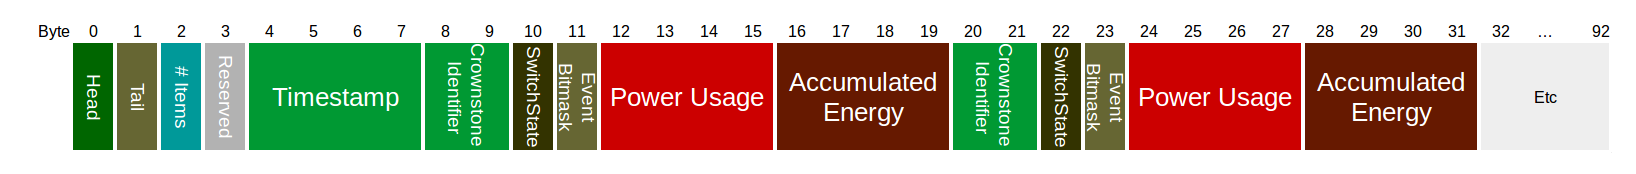
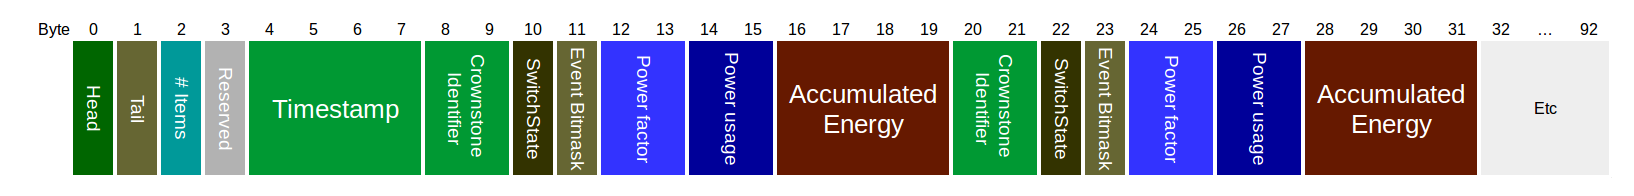
Updated protocol: mesh messages has breaking changes.

diff --git a/docs/PROTOCOL.md b/docs/PROTOCOL.md
@@ -1,4 +1,4 @@
-# Bluenet protocol v0.11.2
+# Bluenet protocol v0.12.0
 -------------------------
 
 # Index
@@ -780,29 +780,35 @@ The mesh payload packet is defined by the handle. We have the following handles
 
 Handle | Name | Type | Description
 --- | --- | --- | ---
-1 | Keep alive channel | [Keep alive](#keep_alive_mesh_packet) | Channel on which the keep alive messages are sent. A message consists of a global timeout and a number of keep alive items (on per stone which is addressed). If the length of the mesh control packet is 0, the existing keepalive message will be repeated.
-2 | State broadcast channel | [State](#state_mesh_packet) | Each stone sends it's state periodically over the mesh. The message is designed as a circular buffer and a new item is added at the end (throwing out the oldest if full)
-3 | State change channel | [State](#state_mesh_packet) | Each stone sends its' state on this channel if the state changes significantly, e.g. switch state changes.
-4 | Command channel | [Command](#command_mesh_packet) | Commands can be sent to one, multiple or all stones sharing the mesh network. Once a stone receives a command it will send a reply on the reply channel
-5 | Command reply channel | [Command reply](#command_reply_packet) | Every stone that was targeted with a command adds its reply to the reply message.
-6 | Scan result channel | [Scan result](#scan_result_mesh_packet) | If a stone is scanning for devices it adds its scanned devices periodically to this list to be sent over the mesh
-7 | Big data channel | - | This channel is for the case when a stone needs to send big data, such as the history of eneregy usage, etc.
-8 | Multi switch channel | [Multi switch](#multi_switch_mesh_packet) | This channel is used to send different switch commands with individual timeouts, switch states and intents to different crownstones in one message
+11 | Keep alive channel | [Keep alive](#keep_alive_mesh_packet) | Channel on which the keep alive messages are sent. A message consists of a global timeout and a number of keep alive items (on per stone which is addressed). If the length of the mesh control packet is 0, the existing keepalive message will be repeated.
+9  | State channel | [State](#state_mesh_packet) | Each stone sends its state periodically, and on significant state change, over the mesh. The message is designed as a circular buffer and a new item is added at the end (throwing out the oldest when full).
+10 | State channel | [State](#state_mesh_packet) | Each stone sends its state periodically, and on significant state change, over the mesh. The message is designed as a circular buffer and a new item is added at the end (throwing out the oldest when full).
+4  | Command channel | [Command](#command_mesh_packet) | Commands can be sent to one, multiple or all stones sharing the mesh network. Once a stone receives a command it will send a reply on the reply channel
+5  | Command reply channel | [Command reply](#command_reply_packet) | Every stone that was targeted with a command adds its reply to the reply message.
+6  | Scan result channel | [Scan result](#scan_result_mesh_packet) | If a stone is scanning for devices it adds its scanned devices periodically to this list to be sent over the mesh
+7  | Big data channel | - | This channel is for the case when a stone needs to send big data, such as the history of eneregy usage, etc.
+12 | Multi switch channel | [Multi switch](#multi_switch_mesh_packet) | This channel is used to send different switch commands with individual timeouts, switch states and intents to different crownstones in one message
 
 #### <a name="keep_alive_mesh_packet"></a>Keep alive packet
 
-![Keep Alive packet](../docs/diagrams/keep-alive-mesh-packet.png)
+![Keep alive packet](../docs/diagrams/keep-alive-mesh-packet.png)
 
-Deprecated: If the length of the mesh control packet is 0, the existing keepalive message will be repeated. This is used to delay the existing time outs by people who do not have permission to change the state.
+Type nr | Type name | Payload type | Description
+--- | --- | --- | ---
+1 | [Same timeout](#keep_alive_same_timeout_mesh_packet) | Keep alive same timeout | Keep alive with same timeout for each Crownstone.
+
+#### <a name="keep_alive_same_timeout_mesh_packet"></a>Keep alive same timeout packet
+
+![Keep alive same timeout packet](../docs/diagrams/keep-alive-same-timeout-mesh-packet.png)
 
 Type | Name | Length | Description
 --- | --- | --- | ---
 uint 16 | Timeout | 2 | Timeout (in seconds), applies to all stones present in the list.
-uint 8 | Size | 1 | Number of keep alive items in the list.
-uint 8 [2] | Reserved | 2 | Reserved for future use.
-[Keep alive item](#keep_alive_mesh_item) [] | List | N | The keep alive items.
+uint 8 | Count | 1 | Number of items in the list.
+uint 8 | Reserved | 1 | Reserved for future use.
+[Keep alive item](#keep_alive_mesh_item) [] | List | N | The keep alive same timeout items.
 
-##### <a name="keep_alive_mesh_item"></a>Keep alive Item
+##### <a name="keep_alive_mesh_item"></a>Keep alive same timeout item
 
 Type | Name | Length | Description
 --- | --- | --- | ---
@@ -828,7 +834,7 @@ uint 8 | Tail | 1 | Keeps the index where the next element can be inserted in th
 uint 8 | Size | 1 | Number of elements in the list
 uint 8 | Reserved | 1 | Reserved for future use
 uint 32 | Timestamp | 4 | Posix timestamp at which this message was originally sent (0 for unknown time)
-[Crownstone state item](#state_mesh_item) [] | List | 7 | Circular list with Crownstone state items
+[Crownstone state item](#state_mesh_item) [] | List | N | Circular list with Crownstone state items
 
 ##### <a name="state_mesh_item"></a>Crownstone state item
 
@@ -837,8 +843,9 @@ Type | Name | Length | Description
 uint 16 | Crownstone ID | 2 | The identifier of the crownstone which has this state
 uint 8 | Switch state | 1 | The current [Switch state](#switch_state_packet) of the crownstone
 uint 8 | Event bitmask | 1 | The current [Event bitmask](#event_bitmask) of the crownstone
-int 32 | Power usage | 4 | The current power usage of the crownstone (mW)
-int 32 | Accumulated energy | 4 | The accumulated energy since setup (Wh)
+int 16 | Power factor | 2 | The power factor at this moment. Divide by 1024 to get the actual power factor.
+uint 16 | Power usage | 2 | The apparent power usage at this moment. Divide by 16 to get power usage in Watt.
+int 32 | Energy used | 4 | The total energy used. Divide by 64 to get the energy used in Joule.
 
 #### <a name="command_mesh_packet"></a>Command packet
 
@@ -846,19 +853,19 @@ int 32 | Accumulated energy | 4 | The accumulated energy since setup (Wh)
 
 Type | Name | Length | Description
 --- | --- | --- | ---
-uint 16 | [Command type](#mesh_command_types) | 2 | Type of command, see table below.
-uint 8 | Number of IDs | 1 | The number of IDs provided as targets, 0 for broadcast
-uint16 [] | List of target IDs | Number of IDs | Crownstone Identifiers of the devices at which this message is aimed, for broadcast, no IDs are provided and the command follows directly after the Number of IDs element
-uint 8 | Command payload | N | The command payload data, which depends on the message type
+uint 16 | [Type](#mesh_command_types) | 2 | Type of command, see table below.
+uint 8 | Count | 1 | The number of IDs provided as targets, 0 for broadcast.
+uint16 [] | List of target IDs | Count * 2 | Crownstone Identifiers of the devices at which this message is aimed, for broadcast, no IDs are provided and the command follows directly after the Number of IDs element.
+uint 8 | Command payload | N | The command payload data, which depends on the type.
 
 ##### <a name="mesh_command_types"></a>Command types
 
 Type nr | Type name | Payload type | Payload description
 --- | --- | --- | ---
-0 | Control | [Control](#control_packet) | Send a control command over the mesh, see control packet
+0 | Control | [Control](#control_packet) | Send a control command over the mesh, see control packet.
 1 | Beacon | [Beacon Config](#beacon_mesh_data_packet) | Configure the iBeacon settings.
-2 | Config | [Configuration](#config_packet) | Send/Request a configuration setting, see configuration packet
-3 | State | [State](#state_packet) | Send/Request a state variable, see state packet
+2 | Config | [Configuration](#config_packet) | Send/Request a configuration setting, see configuration packet.
+3 | State | [State](#state_packet) | Send/Request a state variable, see state packet.
 
 ##### <a name="beacon_mesh_data_packet"></a>Beacon config packet
 
@@ -877,10 +884,10 @@ int 8 | TX power | 1 | iBeacon signal strength at 1 meter.
 
 Type | Name | Length | Description
 --- | --- | --- | ---
-uint 16 | [Reply type](#mesh_reply_types) | 2 | Type of reply, see table below
-uint 32 | Message counter | 4 | The message number of the command to which this reply belongs
-uint 8 | Number of replies | 1 | Number of reply items in the list
-uint 8 | List of replies | 85 | List of replies, the format is defined by the type of reply
+uint 16 | [Reply type](#mesh_reply_types) | 2 | Type of reply, see table below.
+uint 32 | Message counter | 4 | The message number of the command to which this reply belongs.
+uint 8 | Count | 1 | Number of items in the list.
+uint 8 | List | 85 | List of replies, the format is defined by the type of reply.
 
 ##### <a name="mesh_reply_types"></a>Reply types
 
@@ -931,7 +938,7 @@ Type | Name | Length | Description
 --- | --- | --- | ---
 uint 8 | Number of results | 1 | Number of scan results in the list
 uint 8 | Reserved | 1 | Reserved for future use
-[Scan Result item](#scan_result_item) [] | List | Number of results | A list of scanned devices with the ID of the crownstone that scanned the device
+[Scan Result item](#scan_result_item) [] | List | N | A list of scanned devices with the ID of the crownstone that scanned the device
 
 ##### <a name="mesh_scan_result_item"></a>Scan result item
 
@@ -943,22 +950,29 @@ int 8 | RSSI | 1 | The averaged RSSI value of the scanned device
 
 ##### <a name="multi_switch_mesh_packet"></a></a>Multi switch packet
 
-![Keep Alive packet](../docs/diagrams/multi-switch-mesh-packet.png)
+![Multi switch packet](../docs/diagrams/multi-switch-mesh-packet.png)
+
+Type nr | Type name | Payload type | Description
+--- | --- | --- | ---
+0 | [List](#multi_switch_list_mesh_packet) | Multi switch list | Different switch command for each Crownstone.
+
+##### <a name="multi_switch_list_mesh_packet"></a></a>Multi switch list packet
+
+![Multi switch packet](../docs/diagrams/multi-switch-list-mesh-packet.png)
 
 Type | Name | Length | Description
 --- | --- | --- | ---
-uint 8 | Size | 1 | Number of keep alive items in the list
-uint 8 | Reserved | 1 | Reserved for future use
-[Multi switch item](#multi_switch_mesh_item) [] | List | N | a list of targeted crownstones with switch states, timeouts and intents
+uint 8 | Count | 1 | Number of multi switch list items in the list.
+[Multi switch list item](#multi_switch_list_mesh_item) [] | List | N | A list of switch commands.
 
-##### <a name="multi_switch_mesh_item"></a>Multi switch item
+##### <a name="multi_switch_list_mesh_item"></a>Multi switch list item
 
 Type | Name | Length | Description
 --- | --- | --- | ---
-uint 16 | Crownstone ID | 2 | The identifier of the crownstone to which this item is targeted
+uint 16 | Crownstone ID | 2 | The identifier of the crownstone to which this item is targeted.
 uint 8 | Switch state | 1 | The switch state to be set by the targeted crownstone after the timeout expires. 0 = off, 100 = fully on.
-uint 16 | Timeout | 2 | The timeout (in seconds) after which the state should be set
-uint 8 | [Intent](#multi_switch_intent) | 1 | The intent of the switch, see the table below
+uint 16 | Timeout | 2 | The timeout (in seconds) after which the state should be set.
+uint 8 | [Intent](#multi_switch_intent) | 1 | The intent of the switch, see the table below.
 
 ###### <a name="multi_switch_intent"></a>Intent
 
